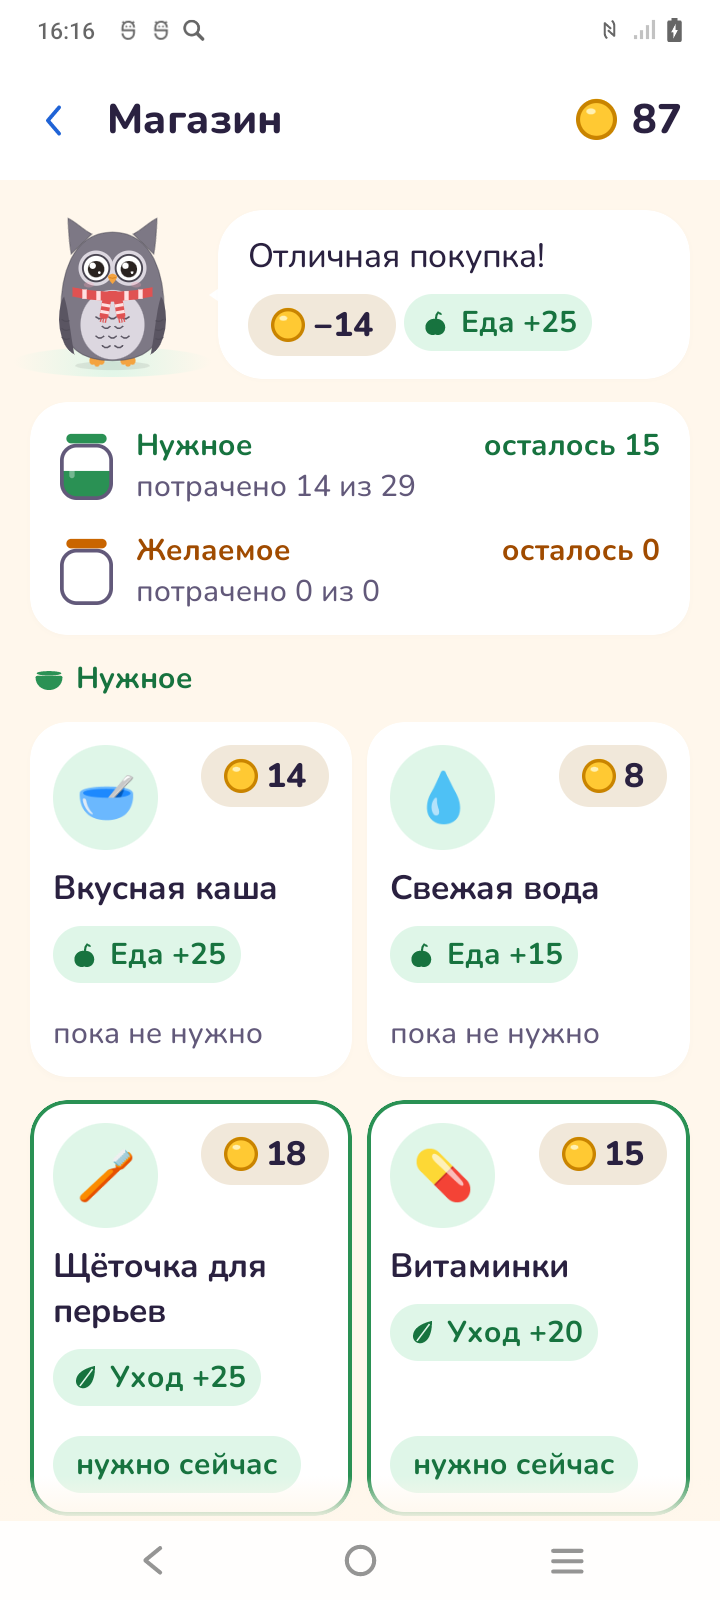
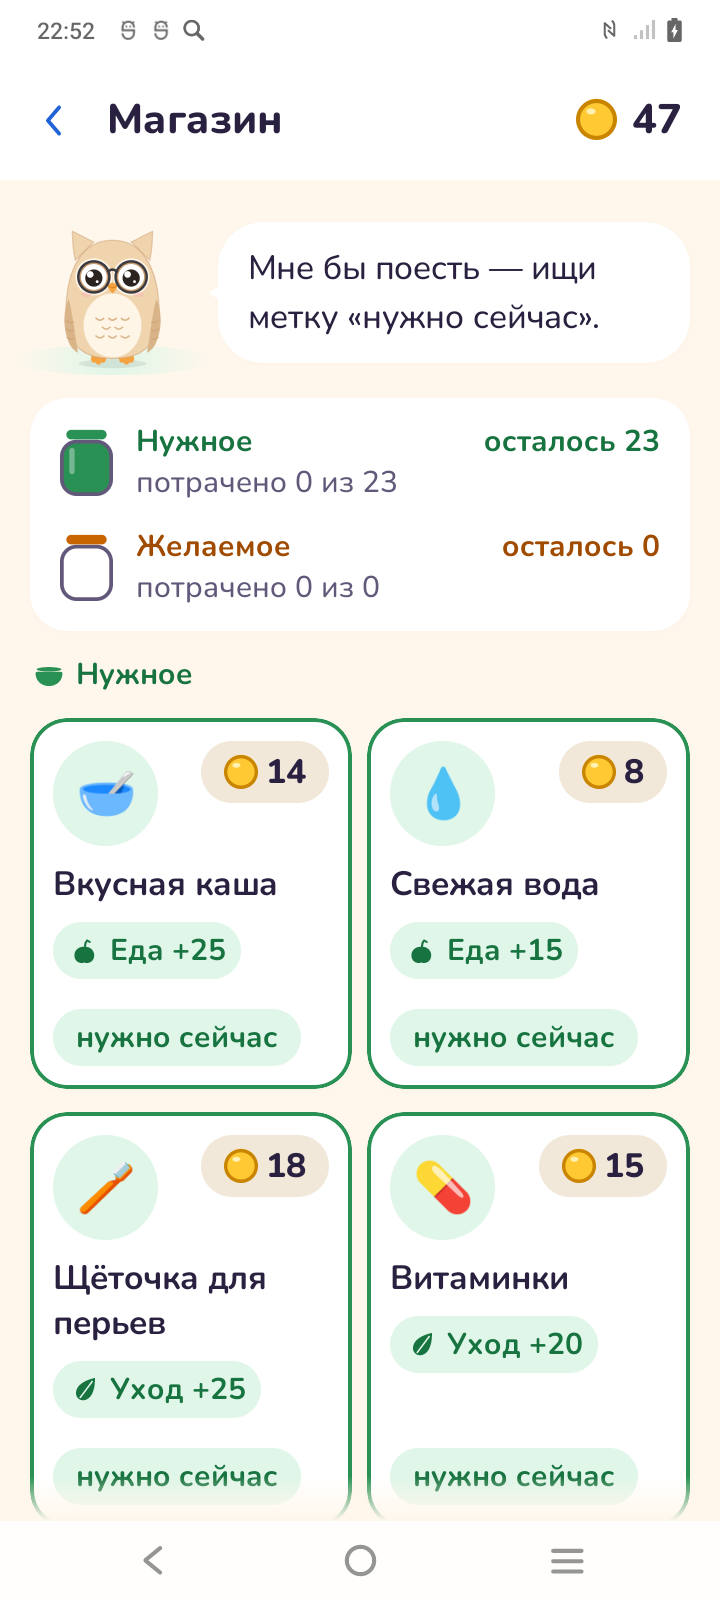
[S3] README: кнопка «Скачать APK» на последний релиз; 9 из 10 снимков пересняты на Vivo с 92015b7 — питомец «Финни», на плане новая подсказка, подписи магазина, копилки и задания по новым кадрам; 3.1 и 3.6 — 🟡 с тем, что на 360 dp и шрифте ×2,0 на главном рвутся и обрезаются подписи и плитки; «План 

diff --git a/README.md b/README.md
@@ -10,6 +10,8 @@
 ![Jetpack Compose](https://img.shields.io/badge/Jetpack%20Compose-Material%203-4285F4?logo=jetpackcompose&logoColor=white)
 ![minSdk](https://img.shields.io/badge/minSdk-26-informational)
 
+<a href="https://github.com/egor-ver/finny-pet/releases/latest"><img src="https://img.shields.io/badge/%D0%A1%D0%BA%D0%B0%D1%87%D0%B0%D1%82%D1%8C_APK-Android_8.0%2B-2FA36B?style=for-the-badge&logo=android&logoColor=white&labelColor=1F7A53" alt="Скачать APK" width="500"></a>
+
 <img src="docs/screenshots/02-main.png" width="240" alt="Главный экран: сова, показатели, плитки плана, копилки, роста и заданий">&nbsp;
 <img src="docs/screenshots/04-plan.png" width="240" alt="План на день: монеты раскладываются по банкам">&nbsp;
 <img src="docs/screenshots/05-shop.png" width="240" alt="Магазин: банки плана и товары с ценой и влиянием на сову">
@@ -58,9 +60,9 @@ flowchart LR
 | <img src="docs/screenshots/01-create.png" width="240" alt="Создание питомца"> | <img src="docs/screenshots/02-main.png" width="240" alt="Главный экран"> | <img src="docs/screenshots/03-settings.png" width="240" alt="Окно настроек"> |
 | Создание: окрас, аксессуар, имена | Главный: сова, показатели, план, цель | Настройки: звуки, мелодия, движение |
 | <img src="docs/screenshots/04-plan.png" width="240" alt="План на день"> | <img src="docs/screenshots/05-shop.png" width="240" alt="Магазин"> | <img src="docs/screenshots/06-savings.png" width="240" alt="Копилка"> |
-| План: монеты по трём банкам | Магазин: «потрачено 14 из 29» | Копилка: цель собрана |
+| План: монеты по трём банкам | Магазин: «потрачено 0 из 23» | Копилка: накоплено 28 из 70 |
 | <img src="docs/screenshots/07-task.png" width="240" alt="Задание"> | <img src="docs/screenshots/08-day-end.png" width="240" alt="Итоги дня"> | <img src="docs/screenshots/09-progress.png" width="240" alt="Мой прогресс"> |
-| Задание: собрать корзину по списку | Итоги дня: звёзды и рост | «Мой прогресс»: стадии, цель, словарик |
+| Задание: копим на воздушного змея | Итоги дня: звёзды и рост | «Мой прогресс»: стадии, цель, словарик |
 | <img src="docs/screenshots/10-adult.png" width="240" alt="Раздел для взрослого"> | | |
 | Раздел взрослого: темы и советы | | |
 
@@ -70,7 +72,7 @@ flowchart LR
 ## Статус на 29.09
 
 **Готово:** весь игровой цикл по ТЗ 2.5 на настоящих данных, минимальный контент
-ТЗ 2.6, release-APK. **Тесты:** 809 юнит-тестов, все проходят (`testDebugUnitTest`
+ТЗ 2.6, release-APK. **Тесты:** 837 юнит-тестов, все проходят (`testDebugUnitTest`
 на этом коммите).
 
 ### Функциональные требования (ТЗ 2.5)
@@ -107,23 +109,21 @@ flowchart LR
 
 | № | Требование | Статус | Комментарий |
 |---|---|---|---|
-| 3.1 | Android 8.0+, портрет, от 360 dp | 🟡 | `minSdk 26`, портрет; игра проходится на Vivo (384 dp); ширина 360 dp и шрифт 2,0 на устройстве не проверены, отчёт по устройству — к финалу |
+| 3.1 | Android 8.0+, портрет, от 360 dp | 🟡 | minSdk 26, портрет; игра проходится на Vivo (384 dp); на 360 dp на главном рвутся подписи плиток — исправляется |
 | 3.2 | Стек, контент отдельно от интерфейса | ✅ | Kotlin, Compose, Room; учебный контент в JSON |
 | 3.3 | Имя пакета | ✅ | `ru.finnypet.app` |
 | 3.3 | Подписанный APK, карточка RuStore | 🟡 | release подписан отладочным ключом; свой ключ и карточка RuStore — к финалу |
-| 3.4 | Слои, надёжность, без секретов | ✅ | домен без Android, 809 юнит-тестов, секретов в репозитории нет |
+| 3.4 | Слои, надёжность, без секретов | ✅ | домен без Android, 837 юнит-тестов, секретов в репозитории нет |
 | 3.5 | Без аккаунта и персональных данных | ✅ | нет сети, разрешений и облака; взрослый удаляет игру сам |
-| 3.6 | UX/UI и доступность | 🟡 | кнопки от 48 dp, текст от 16 sp, описания для TalkBack, отключение звука, мелодии и движения; UI-тесты экранов обновляются после редизайна, TalkBack вживую не проверен |
+| 3.6 | UX/UI и доступность | 🟡 | кнопки от 48 dp, текст от 16 sp, описания для TalkBack, отключение звука, мелодии и движения; при шрифте ×2,0 на главном обрезаются подписи и плитки — исправляется |
 
 ### План до финала
 
 | Что | Зачем |
 |---|---|
-| Обновить отложенные UI-тесты экранов и прогнать инструментальные | ТЗ 3.4, 3.6 |
-| Проверка на 360 dp, крупном шрифте и с TalkBack, отчёт по устройству | ТЗ 3.1, 3.6, 8.2 |
-| Свой ключ подписи, карточка RuStore | ТЗ 3.3 |
-| Проверка с педагогом или UX-специалистом, правки по итогам | ТЗ 8.4 |
-| Полная презентация и резервное видео | финальная сдача |
+| Свой ключ подписи | ТЗ 3.3 |
+| Карточка RuStore | ТЗ 3.3 |
+| Вёрстка на 360 dp и крупном шрифте | ТЗ 3.1, 3.6 |
 
 ## Стек и запуск
 
@@ -140,7 +140,7 @@ flowchart LR
 Версия приложения — `1.0` (`versionCode 1`, `app/build.gradle.kts`).
 Сервера нет, игра полностью офлайн; ИИ и машинное обучение не применяются.
 
-**Готовый APK:** ссылка пока не добавлена — соберите по инструкции ниже.
+**Готовый APK:** [последний релиз](https://github.com/egor-ver/finny-pet/releases/latest) или сборка по инструкции ниже.
 
 Нужны Android SDK с платформой **android-37.1** и JDK 21 (Gradle подтянет его сам
 или возьмёт JBR из Android Studio **2026.1.1+**).
@@ -153,7 +153,7 @@ cd finny-pet
 ```
 
 Release-сборка подписана отладочным ключом Android — её можно сразу поставить
-на телефон; свой ключ появится к финалу. Для отладки — `./gradlew :app:installDebug`.
+на телефон. Для отладки — `./gradlew :app:installDebug`.
 
 <details>
 <summary>Особенности сборки</summary>
@@ -221,18 +221,7 @@ gradle/libs.versions.toml       версии библиотек
 
 ## Ограничения и вопросы заказчику
 
-| Ограничение | Почему так |
-|---|---|
-| Один вид питомца — сова | внешность разнообразят окрас и аксессуар; шапки не садятся на «ушки» совы |
-| Миграций базы нет | до первого релиза схема меняется, база пересоздаётся |
-| Холодный запуск: 3–5 с пустой экран | замечено на Vivo, замер — к финалу |
-| Release подписан отладочным ключом | достаточно для 7.1 по ответам заказчика, свой ключ — к финалу |
-
-Открытых вопросов к заказчику сейчас нет.
-
-По ТЗ 2.7 в игре намеренно нет реальных счетов, карт и платежей, покупок за
-деньги и рекламы, чатов и рейтингов между детьми, удалённого родительского
-контроля и веб-кабинета.
+Открытых вопросов к заказчику нет.
 
 ## Лицензии сторонних материалов
 
